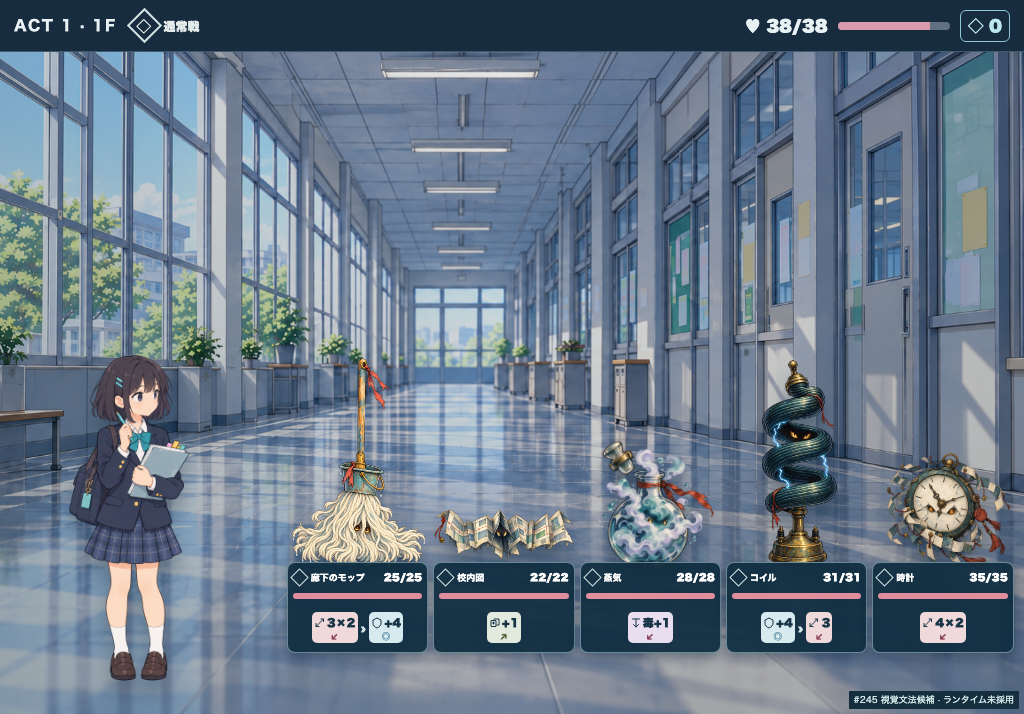
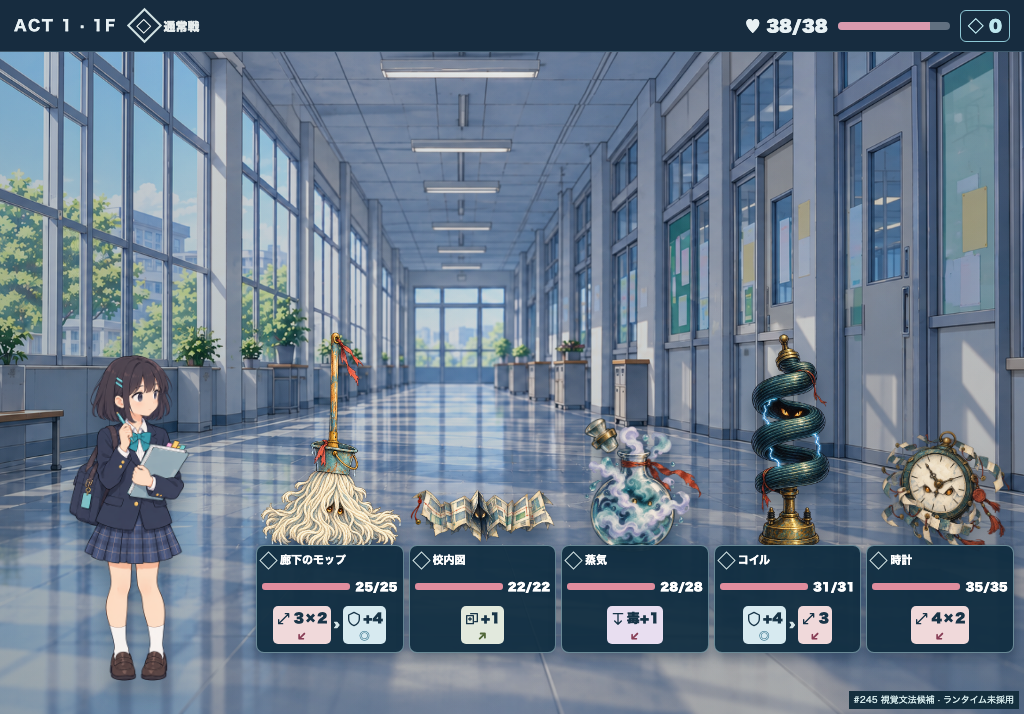
design: improve five-enemy readability and class examples

Changed region(s): [[0.25, 0.4622, 1.0, 0.9244]]

diff --git a/docs/design/issue245-intent-prototype.html b/docs/design/issue245-intent-prototype.html
@@ -54,11 +54,12 @@
     .enemy-id{position:relative;z-index:4;display:grid;flex:none;gap:5px;width:100%;max-width:260px;min-height:97px;margin-top:-8px;padding:7px 9px 9px;background:#102d40ef;border:1px solid #95b7c1a8;border-radius:8px;box-shadow:0 5px 12px #0a203b66;text-align:left}
     .identity-row{display:flex;align-items:center;gap:5px;min-width:0}
     .identity-row strong{font-size:12px;line-height:1.1;min-width:0;overflow:hidden;text-overflow:ellipsis;white-space:nowrap}
+    .hp-row{display:flex;align-items:center;gap:5px;min-width:0}
     .class-mark{display:inline-grid;place-items:center;flex:none;width:13px;height:13px;border:1.5px solid #d2e2e3;transform:rotate(45deg);font-size:0}
     .enemy[data-class="elite"] .class-mark{border:2px double #e9c573;box-shadow:0 0 0 2px #e9c57355}
     .enemy[data-class="boss"] .class-mark{border:2px solid #e9a7ad;box-shadow:0 0 0 3px #e9a7ad55}
-    .hp-number{margin-left:auto;font-size:13px;font-weight:900;white-space:nowrap;font-variant-numeric:tabular-nums}
-    .enemy-hp{display:block;width:100%;height:6px;border-radius:3px;background:#667481;overflow:hidden}
+    .hp-number{font-size:13px;font-weight:900;white-space:nowrap;font-variant-numeric:tabular-nums}
+    .enemy-hp{display:block;flex:1;height:7px;border-radius:3px;background:#667481;overflow:hidden}
     .enemy-hp i{display:block;width:var(--hp);height:100%;background:#e08d9e}
     .enemy-status{position:relative;z-index:5;flex:none;margin-top:4px;height:24px;display:flex;align-items:center;justify-content:center;gap:5px;color:#102c3c}
     .status{background:#d4e7e7e8;padding:2px 5px;border-radius:4px;font-size:11px;font-weight:900}
@@ -68,16 +69,17 @@
     .stage-detail[data-open="true"]{opacity:1}
     .stage-detail strong{display:block;font-size:14px;margin-bottom:3px}
     .preview-watermark{position:absolute;z-index:6;bottom:5px;right:5px;font-size:9px;background:#152f3e;color:#d5e9ea;padding:2px 5px}
-    .game-frame[data-count="5"] .enemy-line{left:31%;right:2%;gap:5px}
+    .game-frame[data-count="5"] .enemy-line{left:26%;right:1%;gap:5px}
     .game-frame[data-count="5"] .hero{left:2%;height:min(59%,340px)}
-    .game-frame[data-count="5"] .step{font-size:12px;padding:2px;gap:1px}
-    .game-frame[data-count="5"] .step svg{width:14px;height:14px}
-    .game-frame[data-count="5"] .seq-arrow{font-size:12px}
-    .game-frame[data-count="5"] .target-mark{font-size:9px}
+    .game-frame[data-count="5"] .step{font-size:13px;padding:3px;gap:1px}
+    .game-frame[data-count="5"] .step svg{width:16px;height:16px}
+    .game-frame[data-count="5"] .seq-arrow{font-size:14px}
+    .game-frame[data-count="5"] .target-mark{font-size:11px}
     .game-frame[data-count="5"] .enemy-art{height:50%}
-    .game-frame[data-count="5"] .enemy-id{min-height:91px;padding:5px}
-    .game-frame[data-count="5"] .identity-row strong{font-size:10px}
-    .game-frame[data-count="5"] .hp-number{font-size:10px}
+    .game-frame[data-count="5"] .enemy-id{min-height:108px;padding:5px}
+    .game-frame[data-count="5"] .identity-row strong{font-size:11px}
+    .game-frame[data-count="5"] .hp-number{font-size:11px}
+    .game-frame[data-count="5"] .stage-detail{left:2%;top:3%;bottom:auto;width:240px}
     .game-frame[data-quiet="true"] .enemy-art,.game-frame[data-quiet="true"] .feedback{transition:none!important;animation:none!important}
     .game-frame[data-quiet="true"] .enemy[data-active="true"] .enemy-art{transform:none}
     @media(prefers-reduced-motion:reduce){.enemy[data-active="true"] .enemy-art{transform:none}}
@@ -86,10 +88,10 @@
       .game-head{padding:0 14px}.hero{left:2%;height:70%}
       .enemy-line{left:32%;right:2%;gap:5px}
       .stage-detail{left:26%}
-      .game-frame[data-count="5"] .enemy-line{left:28%;right:1%}
-      .game-frame[data-count="5"] .step{font-size:11px}
-      .game-frame[data-count="5"] .step svg{width:12px;height:12px}
-      .game-frame[data-count="5"] .identity-row strong{font-size:9px}
+      .game-frame[data-count="5"] .enemy-line{left:25%;right:1%}
+      .game-frame[data-count="5"] .step{font-size:13px}
+      .game-frame[data-count="5"] .step svg{width:16px;height:16px}
+      .game-frame[data-count="5"] .identity-row strong{font-size:11px}
     }
   </style>
 </head>
@@ -157,7 +159,7 @@
       const aria=`${enemy.name}、HP ${enemy.hp}/${enemy.max}、ブロック ${enemy.block}。次の行動: ${enemy.steps.map(fullStep).join('、続いて ')}。`;
       return `<button class="enemy" type="button" data-index="${index}" data-selected="false" data-class="${className}" aria-label="${escapeHtml(aria)}">
         <img class="enemy-art" alt="" src="${enemy.art}">
-        <div class="enemy-id"><div class="identity-row"><span class="class-mark" aria-hidden="true"></span><strong>${escapeHtml(enemy.name)}</strong><span class="hp-number">${enemy.hp}/${enemy.max}</span></div><span class="enemy-hp" role="meter" aria-label="${escapeHtml(enemy.name)}のHP" aria-valuemin="0" aria-valuemax="${enemy.max}" aria-valuenow="${enemy.hp}"><i style="--hp:${enemy.hp/enemy.max*100}%"></i></span><div class="intent-sequence" aria-label="次の行動">${effects}</div></div>
+        <div class="enemy-id"><div class="identity-row"><span class="class-mark" aria-hidden="true"></span><strong>${escapeHtml(enemy.name)}</strong></div><div class="hp-row"><span class="enemy-hp" role="meter" aria-label="${escapeHtml(enemy.name)}のHP" aria-valuemin="0" aria-valuemax="${enemy.max}" aria-valuenow="${enemy.hp}"><i style="--hp:${enemy.hp/enemy.max*100}%"></i></span><span class="hp-number">${enemy.hp}/${enemy.max}</span></div><div class="intent-sequence" aria-label="次の行動">${effects}</div></div>
         <div class="enemy-status">${enemy.block>0?`<span class="status">◇ ${enemy.block}</span>`:''}</div>
         <div class="feedback" aria-hidden="true">${escapeHtml(enemy.steps[0][1])}</div>
       </button>`;

diff --git a/tests/e2e/intent-design-prototype.spec.ts b/tests/e2e/intent-design-prototype.spec.ts
@@ -44,6 +44,9 @@ test("five enemies retain separate HP and intent at iPad landscape size", async 
   }
   await page.locator("#quiet").click();
   await expect(page.locator(".game-frame")).toHaveAttribute("data-quiet", "true");
+  await enemies.nth(3).click();
+  await expect(page.locator("#stage-detail")).toContainText("1. 防御 +4、自分へ");
+  await expect(page.locator("#stage-detail")).toContainText("2. 攻撃 3、味方へ");
 });
 
 test("encounter class and composite elite intent stay explicit", async ({ page }) => {
@@ -51,4 +54,8 @@ test("encounter class and composite elite intent stay explicit", async ({ page }
   await expect(page.locator("#class-text")).toHaveText("強敵戦");
   await expect(page.locator(".enemy")).toHaveAttribute("data-class", "elite");
   await expect(page.locator(".enemy .step-text")).toHaveText(["4", "+3"]);
+  await page.goto(`${prototype}?case=boss`);
+  await expect(page.locator("#class-text")).toHaveText("ボス戦");
+  await expect(page.locator(".enemy")).toHaveAttribute("data-class", "boss");
+  await expect(page.locator(".enemy .step-text")).toHaveText(["7"]);
 });

diff --git a/docs/design/issue245-intent-visual-language.md b/docs/design/issue245-intent-visual-language.md
@@ -31,6 +31,8 @@
 
 5体では各敵の足元プレートに名前・HP・Block・予告を統合する。プレートの輪郭は遭遇区分で変わり、頭上に説明チケットを並べない。選択中の敵だけ詳細を開く。プロトタイプの5体は異なるActを混ぜた**レイアウト負荷テスト**であり、実際の遭遇表を変更しない。敵の行動順は `combat.enemies` の順序。低刺激では動き・発光を抑えても位置・形・数値・順序を残す。
 
+実寸確認用の静止画は [通常戦](previews/issue245-mop-1024.png)、[強敵戦](previews/issue245-elite-1024.png)、[ボス戦](previews/issue245-boss-1024.png)、[5体](previews/issue245-five-1024.png)、[5体で選択時](previews/issue245-five-selected-1024.png)。同じ足元文法で区分・HP・効果を示す。5体時は名前11px・効果値13px・記号16pxなので、実機表示と初見解釈を採用ゲートに残す。
+
 ## 採用ゲート
 
 - PC 1440×900・iPad相当1024×768で1/2/5体を表示し、HP・予告・対象が人物/敵絵を隠さない。予告とHPの実寸画面は `previews/` を参照。
